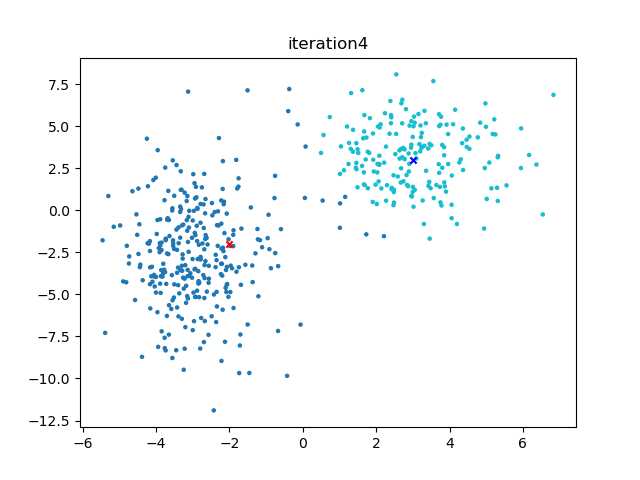
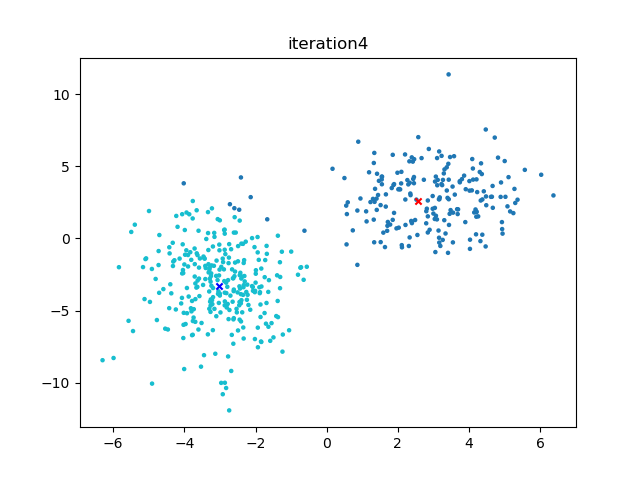
update functions based on EM algorithm(probabilities)

diff --git a/em.py b/em.py
@@ -11,35 +11,55 @@ def expectation(data_exp, param):
     :return: data, the dataset with update label
     """
     data = np.copy(data_exp)
+    update_gamma = np.zeros((len(data), 2))
     for i in range(len(data)):
         coordinate = data[i][:2]
-        p_1 = cal_prob(coordinate, param.mu_1, param.sigma_1, param.lambd[0])
-        p_2 = cal_prob(coordinate, param.mu_2, param.sigma_2, param.lambd[1])
+        p_1 = cal_prob(coordinate, param.mu_1, param.sigma_1)
+        p_2 = cal_prob(coordinate, param.mu_2, param.sigma_2)
+        update_gamma[i][0] = p_1
+        update_gamma[i][1] = p_2
         if p_1 > p_2:
             data[i][2] = 0
         else:
             data[i][2] = 1
-    return data
+    update_gamma[:, 0] = update_gamma[:, 0] * param.pi[0]
+    update_gamma[:, 1] = update_gamma[:, 1] * param.pi[1]
+    gamma_sum = update_gamma.sum(axis=1)
+    gamma_sum = np.vstack((gamma_sum, gamma_sum)).T
+    update_gamma = update_gamma / gamma_sum
+    return data, update_gamma
 
 
-def maximization(data, param):
-    cluster_1 = data[np.where(data[:, 2] == 0)]
-    cluster_2 = data[np.where(data[:, 2] == 1)]
+def get_mean(data, gamma, k):
+    mu = np.zeros(2)
+    for i in range(len(data)):
+        mu = mu + gamma[i][k]*data[i][:2]
+    tau_k = gamma.sum(axis=0)[k]
+    return mu / tau_k
 
-    update_param = Param.Param()
 
-    update_param.lambd[0] = len(cluster_1) / float(len(data))
-    update_param.lambd[1] = 1 - update_param.lambd[0]
+def get_var(data, gamma, k, mu):
+    var = np.zeros((2, 2))
+    for i in range(len(data)):
+        var = var + gamma[i][k] * np.outer(data[i][:2], data[i][:2])
+    tau_k = gamma.sum(axis=0)[k]
+    var = var / tau_k
 
-    update_param.mu_1[0] = np.mean(cluster_1[:, 0])
-    update_param.mu_1[1] = np.mean(cluster_1[:, 1])
-    update_param.mu_2[0] = np.mean(cluster_2[:, 0])
-    update_param.mu_2[1] = np.mean(cluster_2[:, 1])
+    var = var - np.outer(mu, mu)
+    return var
 
-    update_param.sigma_1[0, 0] = np.var(cluster_1[:, 0])
-    update_param.sigma_1[1, 1] = np.var(cluster_1[:, 1])
-    update_param.sigma_2[0, 0] = np.var(cluster_2[:, 0])
-    update_param.sigma_2[1, 1] = np.var(cluster_2[:, 1])
+
+def maximization(data, update_gamma):
+    update_param = Param.Param(len(data))
+
+    update_param.pi[0] = update_gamma.sum(axis=0)[0] / len(data)
+    update_param.pi[1] = 1 - update_param.pi[0]
+
+    update_param.mu_1 = get_mean(data, update_gamma, 0)
+    update_param.mu_2 = get_mean(data, update_gamma, 1)
+
+    update_param.sigma_1 = get_var(data, update_gamma, 0, update_param.mu_1)
+    update_param.sigma_2 = get_var(data, update_gamma, 1, update_param.mu_2)
 
     return update_param
 
@@ -51,8 +71,9 @@ def EM(data_exp, param):
     savefig(data_exp, param.mu_1, param.mu_2, "iteration{:d}".format(iteration))
     while update > epsilon:
         iteration = iteration + 1
-        update_data = expectation(data_exp, param)
-        update_param = maximization(update_data, param)
+        update_data, update_gamma = expectation(data_exp, param)
+        update_param = maximization(update_data, update_gamma)
+        update_param.gamma = np.copy(update_gamma)
 
         update = check_converge(param, update_param)
         print(
@@ -66,8 +87,8 @@ def EM(data_exp, param):
                 param.sigma_1[1, 1],
                 param.sigma_2[0, 0],
                 param.sigma_2[1, 1],
-                param.lambd[0],
-                param.lambd[1]
+                param.pi[0],
+                param.pi[1]
             ))
         data_exp = update_data
         param = update_param

diff --git a/Param.py b/Param.py
@@ -2,9 +2,10 @@ import numpy as np
 
 
 class Param:
-    def __init__(self):
-        self.mu_1 = np.array([1, 1])
-        self.mu_2 = np.array([5, 5])
+    def __init__(self, n):
+        self.mu_1 = np.array([-4.0, 5.0])
+        self.mu_2 = np.array([4.0, -5.0])
         self.sigma_1 = np.array([[1, 0], [0, 1]])
         self.sigma_2 = np.array([[1, 0], [0, 1]])
-        self.lambd = np.array([0.7, 0.3])
+        self.pi = np.array([0.7, 0.3])
+        self.gamma = np.ones((n, 2)) / 2

diff --git a/utils.py b/utils.py
@@ -29,8 +29,8 @@ def check_converge(param, new_param):
     return dist_mu+dist_sigma
 
 
-def cal_prob(coordinate, mu, sigma, lambd):
-    p = lambd
+def cal_prob(coordinate, mu, sigma):
+    p = 1.0
     for i in range(2):
         p = p * normpdf(coordinate[i], mu[i], sigma[i, i])
     return p

diff --git a/demo_em.py b/demo_em.py
@@ -20,7 +20,7 @@ if __name__ == "__main__":
     data_exp[:, 2] = np.random.randint(2, size=num_cluster_1+num_cluster_2)
 
     # start with a randomly guess
-    param = Param.Param()
+    param = Param.Param(num_cluster_1+num_cluster_2)
 
     data, param = em.EM(data_exp, param)
 

diff --git a/README.md b/README.md
@@ -3,18 +3,21 @@
 python implementation of Expectation Maximization Algorithm  
 ## Update parameters
 ```
-ground truth:mu_1:(-3.00, -3.00), mu_2:(3.00, 3.00), var_1:(1.00, 8.00), var_2:(2.00, 4.50), lambda:(0.6, 0.4)
-iteration:1.00, update:17.24, mu_1:(1.00, 1.00), mu_2:(5.00, 5.00), var_1:(1.00, 1.00), var_2:(1.00, 1.00), lambda:(0.70, 0.30)
-iteration:2.00, update:2.41, mu_1:(-1.00, -1.00), mu_2:(3.00, 4.00), var_1:(6.00, 11.00), var_2:(1.00, 2.00), lambda:(0.81, 0.19)
-iteration:3.00, update:3.41, mu_1:(-1.00, -1.00), mu_2:(3.00, 3.00), var_1:(5.00, 10.00), var_2:(1.00, 2.00), lambda:(0.73, 0.27)
-iteration:4.00, update:3.24, mu_1:(-2.00, -2.00), mu_2:(3.00, 3.00), var_1:(3.00, 10.00), var_2:(1.00, 2.00), lambda:(0.66, 0.34)
-iteration:5.00, update:0.00, mu_1:(-2.00, -2.00), mu_2:(3.00, 3.00), var_1:(1.00, 9.00), var_2:(1.00, 3.00), lambda:(0.62, 0.38)
+ground truth:mu_1:(3.00, 3.00), mu_2:(-3.00, -3.00), var_1:(2.00, 4.50), var_2:(1.00, 8.00), lambda:(0.4, 0.6)
+iteration:1.00, update:43.97, mu_1:(-4.00, 5.00), mu_2:(4.00, -5.00), var_1:(1.00, 1.00), var_2:(1.00, 1.00), lambda:(0.70, 0.30)
+iteration:2.00, update:12.79, mu_1:(-0.53, 1.56), mu_2:(-0.71, -2.78), var_1:(10.10, 7.84), var_2:(9.79, 10.96), lambda:(0.47, 0.53)
+iteration:3.00, update:13.49, mu_1:(0.97, 1.69), mu_2:(-2.01, -2.87), var_1:(9.73, 7.71), var_2:(5.99, 10.18), lambda:(0.47, 0.53)
+iteration:4.00, update:7.85, mu_1:(1.94, 2.25), mu_2:(-2.76, -3.24), var_1:(6.93, 5.73), var_2:(2.38, 7.54), lambda:(0.45, 0.55)
+iteration:5.00, update:2.89, mu_1:(2.56, 2.63), mu_2:(-3.02, -3.28), var_1:(3.90, 4.18), var_2:(1.12, 6.73), lambda:(0.43, 0.57)
+iteration:6.00, update:0.87, mu_1:(2.88, 2.74), mu_2:(-3.04, -3.14), var_1:(2.14, 3.95), var_2:(1.05, 7.14), lambda:(0.41, 0.59)
+iteration:7.00, update:0.10, mu_1:(2.98, 2.77), mu_2:(-3.02, -3.09), var_1:(1.67, 3.90), var_2:(1.06, 7.33), lambda:(0.40, 0.60)
+iteration:8.00, update:0.01, mu_1:(2.99, 2.78), mu_2:(-3.02, -3.08), var_1:(1.63, 3.89), var_2:(1.07, 7.35), lambda:(0.40, 0.60)
 ```
 ## Result
 
 <p float="left">
   <img src="result/ground_truth.png" width="470" />
-  <img src="result/iteration5.png" width="470" />
+  <img src="result/iteration8.png" width="470" />
 </p>
 
 ## reference:
